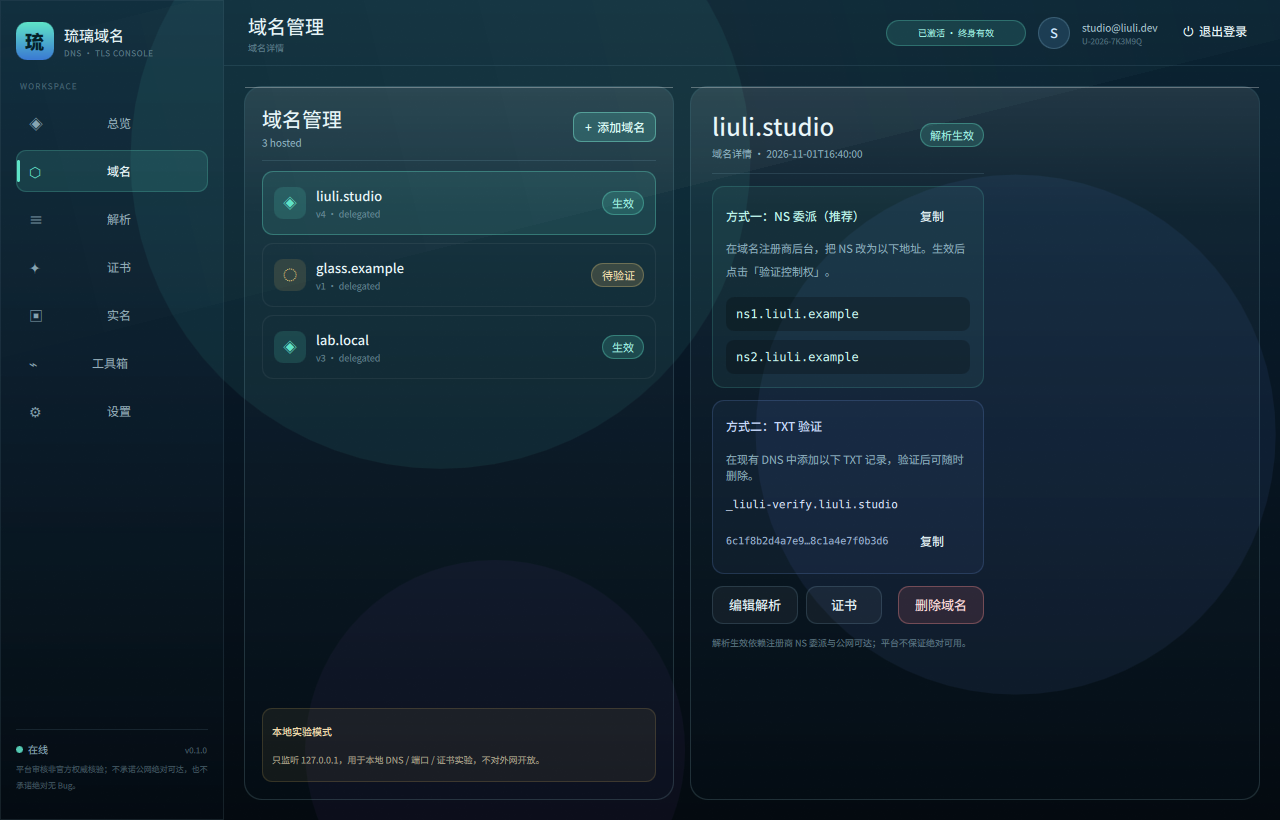
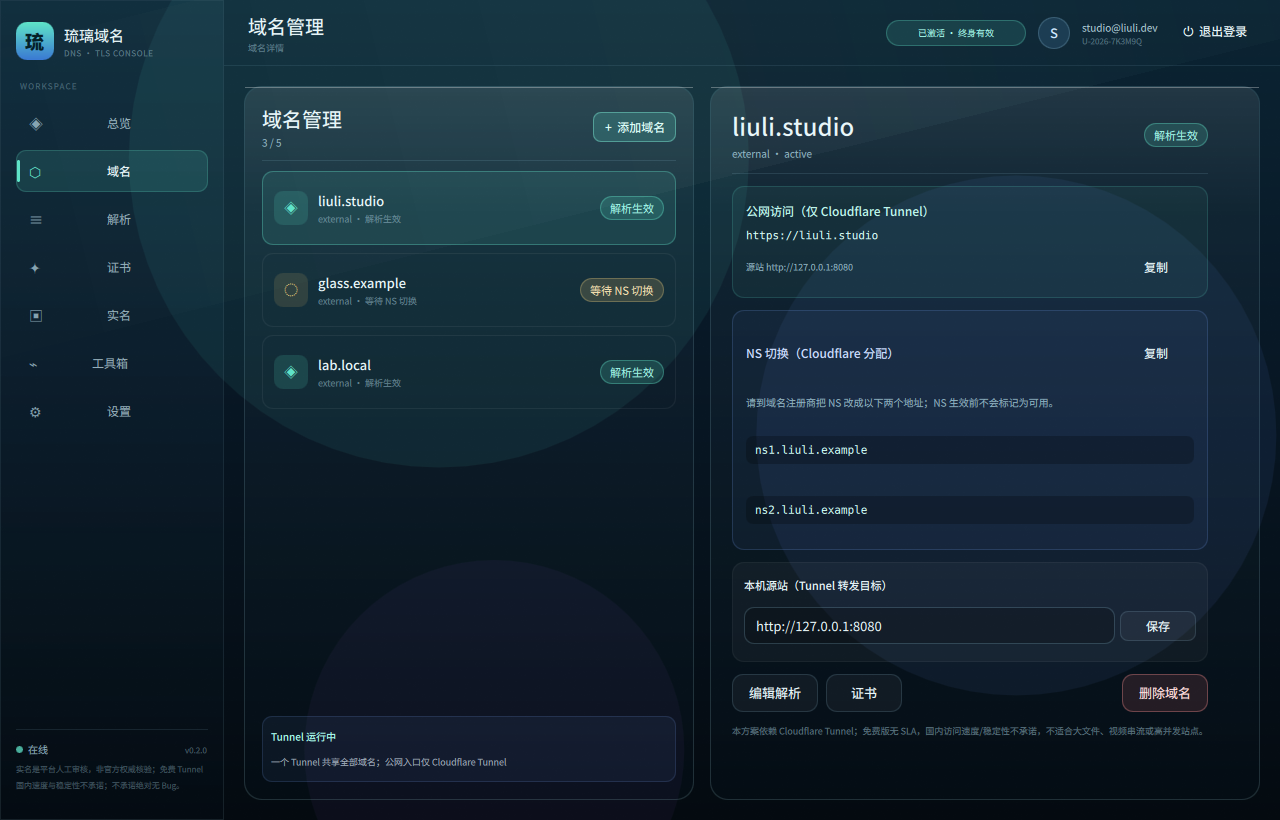
docs: refresh 0.2.0 UI screenshots

diff --git a/docs/screenshots/README.md b/docs/screenshots/README.md
@@ -1,0 +1,5 @@
+# Screenshots
+
+01–07 are generated from the 0.2.0 Linux package (`liuli-dns --demo --screenshot`).
+08–09 are retained from 0.1.0 to illustrate the authentication and onboarding layout;
+the 0.2.0 text and real-name gate are covered by 05 and 02.
